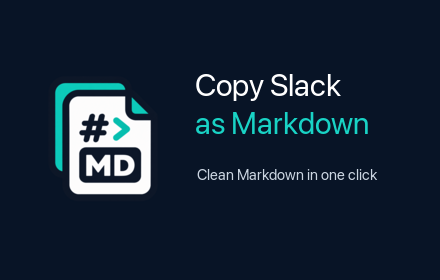
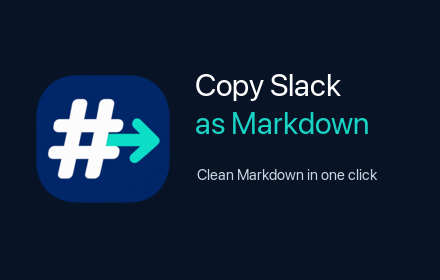
feat: StoreアイコンにC案を採用する

Changed region(s): [[0.0591, 0.2571, 0.3841, 0.7429]]

diff --git a/store-assets/icon-candidates/index.html b/store-assets/icon-candidates/index.html
@@ -1,0 +1,318 @@
+<!doctype html>
+<html lang="ja">
+  <head>
+    <meta charset="UTF-8" />
+    <meta name="viewport" content="width=device-width, initial-scale=1.0" />
+    <title>Copy Slack as Markdown — アイコン比較</title>
+    <style>
+      :root {
+        color: #132033;
+        background: #eef2f5;
+        font-family: -apple-system, BlinkMacSystemFont, "Segoe UI", sans-serif;
+      }
+
+      * {
+        box-sizing: border-box;
+      }
+
+      body {
+        max-width: 1440px;
+        margin: 0 auto;
+        padding: 48px;
+      }
+
+      header {
+        margin-bottom: 32px;
+      }
+
+      h1 {
+        margin: 0 0 8px;
+        font-size: 30px;
+      }
+
+      header p {
+        margin: 0;
+        color: #536174;
+      }
+
+      .candidates {
+        display: grid;
+        grid-template-columns: repeat(2, minmax(0, 1fr));
+        gap: 24px;
+      }
+
+      .candidate {
+        position: relative;
+        padding: 28px;
+        border: 3px solid transparent;
+        border-radius: 20px;
+        background: white;
+        box-shadow: 0 8px 24px rgb(25 39 52 / 8%);
+        cursor: pointer;
+      }
+
+      .candidate:has(input:checked) {
+        border-color: #00bfae;
+        box-shadow: 0 12px 32px rgb(0 191 174 / 18%);
+      }
+
+      input {
+        position: absolute;
+        opacity: 0;
+      }
+
+      .heading {
+        display: flex;
+        align-items: baseline;
+        gap: 12px;
+        margin-bottom: 22px;
+      }
+
+      .letter {
+        display: grid;
+        width: 38px;
+        height: 38px;
+        place-items: center;
+        border-radius: 10px;
+        color: white;
+        background: #081426;
+        font-size: 20px;
+        font-weight: 750;
+      }
+
+      h2 {
+        margin: 0;
+        font-size: 20px;
+      }
+
+      .large-preview {
+        display: grid;
+        min-height: 290px;
+        place-items: center;
+        border-radius: 16px;
+        background-color: #f5f7f9;
+        background-image:
+          linear-gradient(45deg, #e5e9ed 25%, transparent 25%),
+          linear-gradient(-45deg, #e5e9ed 25%, transparent 25%),
+          linear-gradient(45deg, transparent 75%, #e5e9ed 75%),
+          linear-gradient(-45deg, transparent 75%, #e5e9ed 75%);
+        background-position:
+          0 0,
+          0 12px,
+          12px -12px,
+          -12px 0;
+        background-size: 24px 24px;
+      }
+
+      .large-preview img {
+        width: 245px;
+        height: 245px;
+        object-fit: contain;
+      }
+
+      .size-previews {
+        display: grid;
+        grid-template-columns: 1fr 1fr;
+        gap: 12px;
+        margin-top: 14px;
+      }
+
+      .background-preview {
+        display: flex;
+        min-height: 108px;
+        align-items: center;
+        justify-content: center;
+        gap: 16px;
+        border-radius: 12px;
+      }
+
+      .background-preview.light {
+        border: 1px solid #dde3e8;
+        background: white;
+      }
+
+      .background-preview.dark {
+        background: #151b26;
+      }
+
+      .size {
+        display: grid;
+        justify-items: center;
+        gap: 6px;
+        color: #708095;
+        font-size: 11px;
+      }
+
+      .dark .size {
+        color: #aab5c3;
+      }
+
+      .size img {
+        object-fit: contain;
+      }
+
+      .description {
+        margin: 18px 0 0;
+        color: #536174;
+        line-height: 1.6;
+      }
+
+      .selection {
+        position: sticky;
+        bottom: 20px;
+        width: fit-content;
+        margin: 30px auto 0;
+        padding: 12px 20px;
+        border: 1px solid #cbd3dc;
+        border-radius: 999px;
+        background: rgb(255 255 255 / 92%);
+        box-shadow: 0 6px 24px rgb(25 39 52 / 14%);
+        backdrop-filter: blur(8px);
+        font-weight: 700;
+      }
+
+      @media (max-width: 900px) {
+        body {
+          padding: 24px;
+        }
+
+        .candidates {
+          grid-template-columns: 1fr;
+        }
+      }
+    </style>
+  </head>
+  <body>
+    <header>
+      <h1>Copy Slack as Markdown — アイコン比較</h1>
+      <p>
+        カードをクリックして選択できます。特に32pxと16pxでの判別しやすさを比較してください。
+      </p>
+    </header>
+
+    <main class="candidates">
+      <label class="candidate">
+        <input type="radio" name="candidate" value="A" />
+        <div class="heading">
+          <span class="letter">A</span>
+          <h2>Document + Markdown</h2>
+        </div>
+        <div class="large-preview"><img src="a-current.png" alt="候補A" /></div>
+        <div class="size-previews">
+          <div
+            class="background-preview light"
+            data-source="a-current.png"
+          ></div>
+          <div
+            class="background-preview dark"
+            data-source="a-current.png"
+          ></div>
+        </div>
+        <p class="description">
+          文書、変換、Markdownをすべて含む現在案。機能は伝わりやすい一方、要素数は多めです。
+        </p>
+      </label>
+
+      <label class="candidate">
+        <input type="radio" name="candidate" value="B" />
+        <div class="heading">
+          <span class="letter">B</span>
+          <h2>Message + Copy</h2>
+        </div>
+        <div class="large-preview">
+          <img src="b-message-copy.png" alt="候補B" />
+        </div>
+        <div class="size-previews">
+          <div
+            class="background-preview light"
+            data-source="b-message-copy.png"
+          ></div>
+          <div
+            class="background-preview dark"
+            data-source="b-message-copy.png"
+          ></div>
+        </div>
+        <p class="description">
+          メッセージとコピーを前面に出した案。用途は明確ですが、小サイズでは情報量がやや多くなります。
+        </p>
+      </label>
+
+      <label class="candidate">
+        <input type="radio" name="candidate" value="C" />
+        <div class="heading">
+          <span class="letter">C</span>
+          <h2>Hash + Arrow</h2>
+        </div>
+        <div class="large-preview">
+          <img src="c-hash-arrow.png" alt="候補C" />
+        </div>
+        <div class="size-previews">
+          <div
+            class="background-preview light"
+            data-source="c-hash-arrow.png"
+          ></div>
+          <div
+            class="background-preview dark"
+            data-source="c-hash-arrow.png"
+          ></div>
+        </div>
+        <p class="description">
+          Markdownと変換を記号だけで表現した最小案。小サイズで最も形を認識しやすい構成です。
+        </p>
+      </label>
+
+      <label class="candidate">
+        <input type="radio" name="candidate" value="D" />
+        <div class="heading">
+          <span class="letter">D</span>
+          <h2>Selection + MD</h2>
+        </div>
+        <div class="large-preview">
+          <img src="d-selection-md.png" alt="候補D" />
+        </div>
+        <div class="size-previews">
+          <div
+            class="background-preview light"
+            data-source="d-selection-md.png"
+          ></div>
+          <div
+            class="background-preview dark"
+            data-source="d-selection-md.png"
+          ></div>
+        </div>
+        <p class="description">
+          選択範囲のコピーを強調した案。機能固有の印象があり、A/Bより軽量です。
+        </p>
+      </label>
+    </main>
+
+    <div class="selection" id="selection">
+      候補をクリックすると、ここに選択結果が表示されます
+    </div>
+
+    <script>
+      const sizes = [48, 32, 16];
+      for (const preview of document.querySelectorAll("[data-source]")) {
+        for (const size of sizes) {
+          const wrapper = document.createElement("span");
+          wrapper.className = "size";
+          const image = document.createElement("img");
+          image.src = preview.dataset.source;
+          image.width = size;
+          image.height = size;
+          image.alt = `${size}px preview`;
+          const label = document.createElement("span");
+          label.textContent = `${size}px`;
+          wrapper.append(image, label);
+          preview.append(wrapper);
+        }
+      }
+
+      document.addEventListener("change", (event) => {
+        if (!(event.target instanceof HTMLInputElement)) return;
+        document.querySelector("#selection").textContent =
+          `選択中: ${event.target.value}案`;
+      });
+    </script>
+  </body>
+</html>
